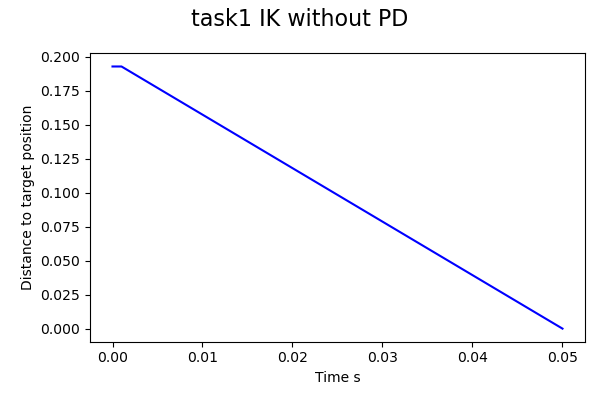
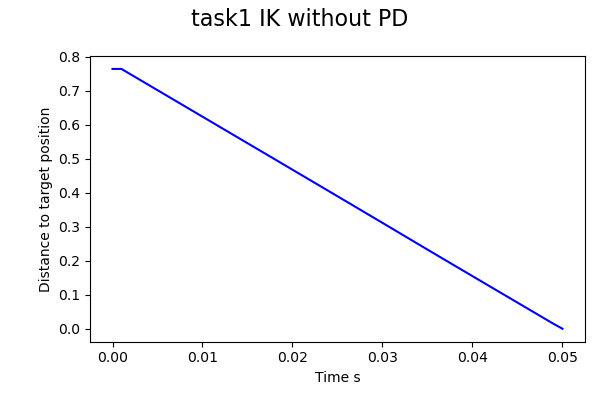
some dbugging changes

diff --git a/core/Pybullet_Simulation.py b/core/Pybullet_Simulation.py
@@ -399,7 +399,7 @@ class Simulation(Simulation_base):
         
     # Task 1.2 Inverse Kinematics
 
-    def inverseKinematics(self, endEffector, targetPosition, orientation, interpolationSteps, threshold, startJoint):
+    def inverseKinematics(self, endEffector, targetPosition, orientation, interpolationSteps, threshold, startJoint, debug=False):
         """Your IK solver \\
         Arguments: \\
             endEffector: the jointName the end-effector \\
@@ -447,13 +447,15 @@ class Simulation(Simulation_base):
         # -- Debug - Draw where the end effector starts in light blue
         print("Starting EF Position :" + str(efPosition))
         print("Starting EF Angle :" + str(efAngle))
-        visualShift = efPosition
-        inertiaShift = [0,0,0]
+        if debug:
+            
+            visualShift = efPosition
+            inertiaShift = [0,0,0]
 
-        meshScale=[0.1,0.1,0.1]
-        visualShapeId = p.createVisualShape(shapeType=p.GEOM_SPHERE, rgbaColor=[0,1,1,1],radius= 0.02, visualFramePosition=visualShift, meshScale=meshScale)
+            meshScale=[0.1,0.1,0.1]
+            visualShapeId = p.createVisualShape(shapeType=p.GEOM_SPHERE, rgbaColor=[0,1,1,1],radius= 0.02, visualFramePosition=visualShift, meshScale=meshScale)
 
-        p.createMultiBody(baseMass=0,baseInertialFramePosition=inertiaShift, baseVisualShapeIndex = visualShapeId, basePosition = [0,0,0.85], useMaximalCoordinates=False)
+            p.createMultiBody(baseMass=0,baseInertialFramePosition=inertiaShift, baseVisualShapeIndex = visualShapeId, basePosition = [0,0,0.85], useMaximalCoordinates=False)
         # Compute the tiny changes in positions for the end effector to go towards the target
         stepPositions = np.linspace(efPosition,targetPosition,num=interpolationSteps)
         #TODO: Check whether we are meant to retrieve step orientations with linspace. Sti
@@ -501,15 +503,16 @@ class Simulation(Simulation_base):
             #if np.linalg.norm(efPosition - currGoal) < threshold:
             #    break
             EFLocations.append(efPosition)
+            
+            if debug:
+                visualShift = efPosition
+                collisionShift = [0,0,0]
+                inertiaShift = [0,0,0]
 
-            visualShift = efPosition
-            collisionShift = [0,0,0]
-            inertiaShift = [0,0,0]
+                meshScale=[0.1,0.1,0.1]
+                visualShapeId = p.createVisualShape(shapeType=p.GEOM_SPHERE, rgbaColor=[0,1,0,1],radius= 0.005, visualFramePosition=visualShift, meshScale=meshScale)
 
-            meshScale=[0.1,0.1,0.1]
-            visualShapeId = p.createVisualShape(shapeType=p.GEOM_SPHERE, rgbaColor=[0,1,0,1],radius= 0.005, visualFramePosition=visualShift, meshScale=meshScale)
-
-            p.createMultiBody(baseMass=0,baseInertialFramePosition=inertiaShift, baseVisualShapeIndex = visualShapeId, basePosition = [0,0,0.85], useMaximalCoordinates=False)
+                p.createMultiBody(baseMass=0,baseInertialFramePosition=inertiaShift, baseVisualShapeIndex = visualShapeId, basePosition = [0,0,0.85], useMaximalCoordinates=False)
 
             EFDif.append(np.linalg.norm(efPosition - targetPosition))
             timePassed += self.dt
@@ -772,7 +775,6 @@ class Simulation(Simulation_base):
             pltPosition.append(self.jointsInfos[joint]['pos'])
             pltTorque.append(torque)
             pltTarget.append(targetPosition)
-
             timePassed += self.dt
             torque = toy_tick(targetPosition, self.jointsInfos[joint]['pos'], targetVelocity, self.jointsInfos[joint]['vel'], integral=0)
             
@@ -791,7 +793,8 @@ class Simulation(Simulation_base):
                                                                 orientation=orientation,
                                                                 interpolationSteps=20, #TODO: whats the  interpolation step here?
                                                                 threshold=threshold,
-                                                                startJoint=startJoint
+                                                                startJoint=startJoint,
+                                                                debug = debug
                                                                 )
                         
         print("Done with kinematics")
@@ -926,18 +929,18 @@ class Simulation(Simulation_base):
         return points
 
     # Task 3.1 Pushing
-    def dockingToPosition(self):
-        """A template function for you, you are free to use anything else"""
+    def dockingToPosition(self, cubeID, targetID):
+        """A template function for you, you are free to use anything else"""        
         time.sleep(5)
-        startPoint = self.getJointPosition("LARM_JOINT5") + np.array([0, 0, 0.85])
-
+        startPoint = self.getJointPosition("LARM_JOINT5") + np.array([0, 0, 0.85])         
         points = np.array([startPoint, [0.15, 0.1, 1],[0.12, -0.01, 0.98],[0.35, -0.015, 0.98],[0.55, 0, 0.98], [0.60, 0., 0.98]])
-
+        
         #points= self.cubic_interpolation(points, nTimes = 10)
         print(points)
         for p in points:
             self.move_with_PD("LARM_JOINT5", np.array(p) - np.array([0, 0, 0.85]), speed=0.01, orientation=[0,1,1], threshold=1e-3, maxIter=1000, debug=True, verbose=False, startJoint = "base_to_dummy")
-        
+
+
     def move_with_PD_multiple(self, endEffectors, targetPositions, speed=0.01, orientations=None,
         threshold=1e-3, maxIter=3000, debug=False, verbose=False, startJoint ="base_to_dummy"):
         """
@@ -952,14 +955,16 @@ class Simulation(Simulation_base):
                                                                 orientation=orientations[0],
                                                                 interpolationSteps=20, #TODO: whats the  interpolation step here?
                                                                 threshold=threshold,
-                                                                startJoint="base_to_dummy"
+                                                                startJoint="base_to_dummy",
+                                                                debug=debug
                                                                 )
         
         targetStatess_2, jointNames_2, efDiffs_2, eflocations_2, pltTimes_2 = self.inverseKinematics(endEffector=endEffectors[1], targetPosition=targetPositions[1], 
                                                                 orientation=orientations[1],
                                                                 interpolationSteps=20, #TODO: whats the  interpolation step here?
                                                                 threshold=threshold,
-                                                                startJoint="base_to_dummy"
+                                                                startJoint="base_to_dummy",
+                                                                debug=debug
                                                                 )
         
         # targetStatess, jointNames, efDiffs, eflocations, pltTimes =        targetStatess_2, jointNames_2, efDiffs_2, eflocations_2, pltTimes_2   
@@ -973,15 +978,15 @@ class Simulation(Simulation_base):
         jointNames_2.extend(jointNames[3:])
         print(final.shape)
         # for i, targetStates in enumerate(targetStatess):
-            
-        visualShift = eflocations[-1]
-        collisionShift = [0,0,0]
-        inertiaShift = [0,0,0]
+        if debug: 
+            visualShift = eflocations[-1]
+            collisionShift = [0,0,0]
+            inertiaShift = [0,0,0]
 
-        meshScale=[0.1,0.1,0.1]
-        visualShapeId = p.createVisualShape(shapeType=p.GEOM_SPHERE, rgbaColor=[1,0,0,1],radius= 0.015, visualFramePosition=visualShift, meshScale=meshScale)
+            meshScale=[0.1,0.1,0.1]
+            visualShapeId = p.createVisualShape(shapeType=p.GEOM_SPHERE, rgbaColor=[1,0,0,1],radius= 0.015, visualFramePosition=visualShift, meshScale=meshScale)
 
-        p.createMultiBody(baseMass=0,baseInertialFramePosition=inertiaShift, baseVisualShapeIndex = visualShapeId, basePosition = [0,0,0.85], useMaximalCoordinates=False)
+            p.createMultiBody(baseMass=0,baseInertialFramePosition=inertiaShift, baseVisualShapeIndex = visualShapeId, basePosition = [0,0,0.85], useMaximalCoordinates=False)
 
         for _ in range(maxIter):        
             self.tick(final, jointNames_2, speed)

diff --git a/task3_2/task3_2_docking.py b/task3_2/task3_2_docking.py
@@ -160,8 +160,8 @@ def solution():
     # goalLeft3 =  goalLeft2[-1] + np.array(np.array([0.1,0.05,-0.05]))
     # goalRight3 = goalRight2[-1] + np.array(np.array([0,-0.3,-0.02])) #Getting to drop point
 
-    goalLeft3 =  np.linspace(goalLeft2[-1] + np.array([0,0.09,0]), goalLeft2[-1] + np.array(np.array([0.0,0.09,0.15])), 2 )
-    goalRight3 =  np.linspace(goalRight2[-1] + np.array([0,-0.09,0]), goalRight2[-1] + np.array(np.array([0,-0.09,0.15])), 2)
+    goalLeft3 =  np.linspace(goalLeft2[-1] + np.array([0,0.09,0]), goalLeft2[-1] + np.array(np.array([0.0,0.09,0.10])), 2 )
+    goalRight3 =  np.linspace(goalRight2[-1] + np.array([0,-0.09,0]), goalRight2[-1] + np.array(np.array([0,-0.09,0.10])), 2)
 
     shiftToAvoidTableCollision = np.array([0,0,0.075])
     startPointL = sim.getJointPosition("LARM_JOINT5") + shiftToAvoidTableCollision  + np.array([0, 0, 0.85]) 
@@ -174,6 +174,8 @@ def solution():
     #Picking up stage
     points_left = np.linspace(startPointL , goalLeft1 , 2)
     points_right= np.linspace(startPointR , goalRight1 , 2)
+    # points_left = sim.cubic_interpolation(points_left, nTimes = 5)
+    # points_right= sim.cubic_interpolation(points_right, nTimes = 5)
     print(points_right)
     for i in range(len(points_left)):
         p_l = points_left[i]
@@ -184,7 +186,7 @@ def solution():
         # sim.move_with_PD("LARM_JOINT5", np.array(p_l) -  np.array([0, 0, 0.85]) - extraChestTrans  , speed=0.01, orientation=[0,1,0], threshold=1e-3, maxIter=1000, debug=True, verbose=False, startJoint = "LARM_JOINT0")
         sim.move_with_PD_multiple( ["LARM_JOINT5", "RARM_JOINT5"], [np.array(p_l) - np.array([0, 0, 0.85]) ,
                                                                     np.array(p_r) - np.array([0, 0, 0.85])],
-                                  speed=0.0, orientations=[[0,1,1], [0,-1,1]], threshold=1e-3, maxIter=1000, debug=True, verbose=False, startJoint = "")
+                                  speed=0.0, orientations=[[0,1,1], [0,-1,1]], threshold=1e-3, maxIter=1000, debug=False, verbose=False, startJoint = "")
 
     #Moving object stage
     points_left =  goalLeft2
@@ -201,14 +203,14 @@ def solution():
         orient_r = list(orientations_r_step[i])
         sim.move_with_PD_multiple( ["LARM_JOINT5", "RARM_JOINT5"], [np.array(p_l) - np.array([0, 0, 0.85]) ,
                                                                     np.array(p_r) - np.array([0, 0, 0.85])],
-                                  speed=0.01, orientations=[orient_l, orient_r], threshold=1e-3, maxIter=1000, debug=True, verbose=False, startJoint = "")
+                                  speed=0.01, orientations=[orient_l, orient_r], threshold=1e-3, maxIter=1000, debug=False, verbose=False, startJoint = "")
 
     # points_left =  [goalLeft3 for i in range(0,2)]
     # points_right=   [goalRight3 for i in range(0,2)]
     points_left =  goalLeft3
     points_right=   goalRight3
-    # points_left = sim.cubic_interpolation(points_left, nTimes = 10)
-    # points_right= sim.cubic_interpolation(points_right, nTimes = 10)
+    # points_left = sim.cubic_interpolation(points_left, nTimes = 5)
+    # points_right= sim.cubic_interpolation(points_right, nTimes = 5)
     # orientations_l_step= np.linspace([0,1,1], [-1,0,1],len(points_left))
     # orientations_r_step= np.linspace([0,-1,1], [-1,0,1],len(points_right))
 
@@ -226,7 +228,7 @@ def solution():
         
         sim.move_with_PD_multiple( ["LARM_JOINT5", "RARM_JOINT5"], [np.array(p_l) - np.array([0, 0, 0.85]) ,
                                                                     np.array(p_r) - np.array([0, 0, 0.85])],
-                                  speed=0.001,  orientations=[orient_l, orient_r], threshold=1e-3, maxIter=1000, debug=True, verbose=False, startJoint = "")
+                                  speed=0.001,  orientations=[orient_l, orient_r], threshold=1e-3, maxIter=1000, debug=False, verbose=False, startJoint = "")
     
     
     # sim.move_with_PD("RARM_JOINT5", np.array(goalRight3[-1]) - np.array([0, 0, 0.85]) , speed=0.01, orientation=[0,0,1], threshold=1e-3, maxIter=1000, debug=True, verbose=False, startJoint = "base_to_dummy")
@@ -245,4 +247,5 @@ solution()
 ## remove this in final submission
 location, orientation = bullet_simulation.getBasePositionAndOrientation(cubeId)
 print("Final Distance: ",np.linalg.norm(location - finalTargetPos))
-print("Final Distance arm: " , ( ((goalLeft3 + goalRight3)/2) - finalTargetPos) )
+print("Final Distance arm: " , ( ((goalLeft3[0] + goalRight3[0])/2) - finalTargetPos) )
+print("Final Distance arm: " , ( np.linalg.norm(((goalLeft3[0] + goalRight3[0])/2) - finalTargetPos) ))

diff --git a/task3_1/task3_1_pushing.py b/task3_1/task3_1_pushing.py
@@ -89,12 +89,27 @@ def getReadyForTask():
     return tableId, cubeId, targetId
 
 
-def solution():
+def solution(cubeID, targetID, plotting=False):
 
-    sim.dockingToPosition()
+    pltDifference, pltTimes = sim.dockingToPosition(cubeId, targetId, plotting)
+    if plotting: 
+        fig = plt.figure(figsize=(6, 4))
+        plt.plot(pltTimes, pltDifference, color='blue')
+        plt.xlabel("Time s")
+        plt.ylabel("Distance to target position")
+
+        plt.suptitle("task1 IK without PD", size=16)
+        plt.tight_layout()
+        plt.subplots_adjust(left=0.15)
+        plt.show()
+
+
 
 tableId, cubeId, targetId = getReadyForTask()
-solution()
+
+solution(cubeId, targetId, plotting=False)
+
+    
 ## remove this in final submission
 location, orientation = bullet_simulation.getBasePositionAndOrientation(cubeId)
 print("Final Distance: ",np.linalg.norm(location - finalTargetPos))

diff --git a/task1/task1.py b/task1/task1.py
@@ -64,6 +64,8 @@ sim = Simulation(pybulletConfigs, robotConfigs, refVect=ref)
 # the base_to_waist translation.
 endEffector = "LARM_JOINT5"
 targetPosition = np.array([0.37, 0.23, 1.06385]) - np.array([0, 0, 0.85])  # x,y,z coordinates in world frame
+targetPosition = np.array([-0.37, 0.23, 1.06385]) - np.array([0, 0, 0.85])  # x,y,z coordinates in world frame
+
 targetOrientation = [0,0,1]
 # Example code. Feel free to modify
 
